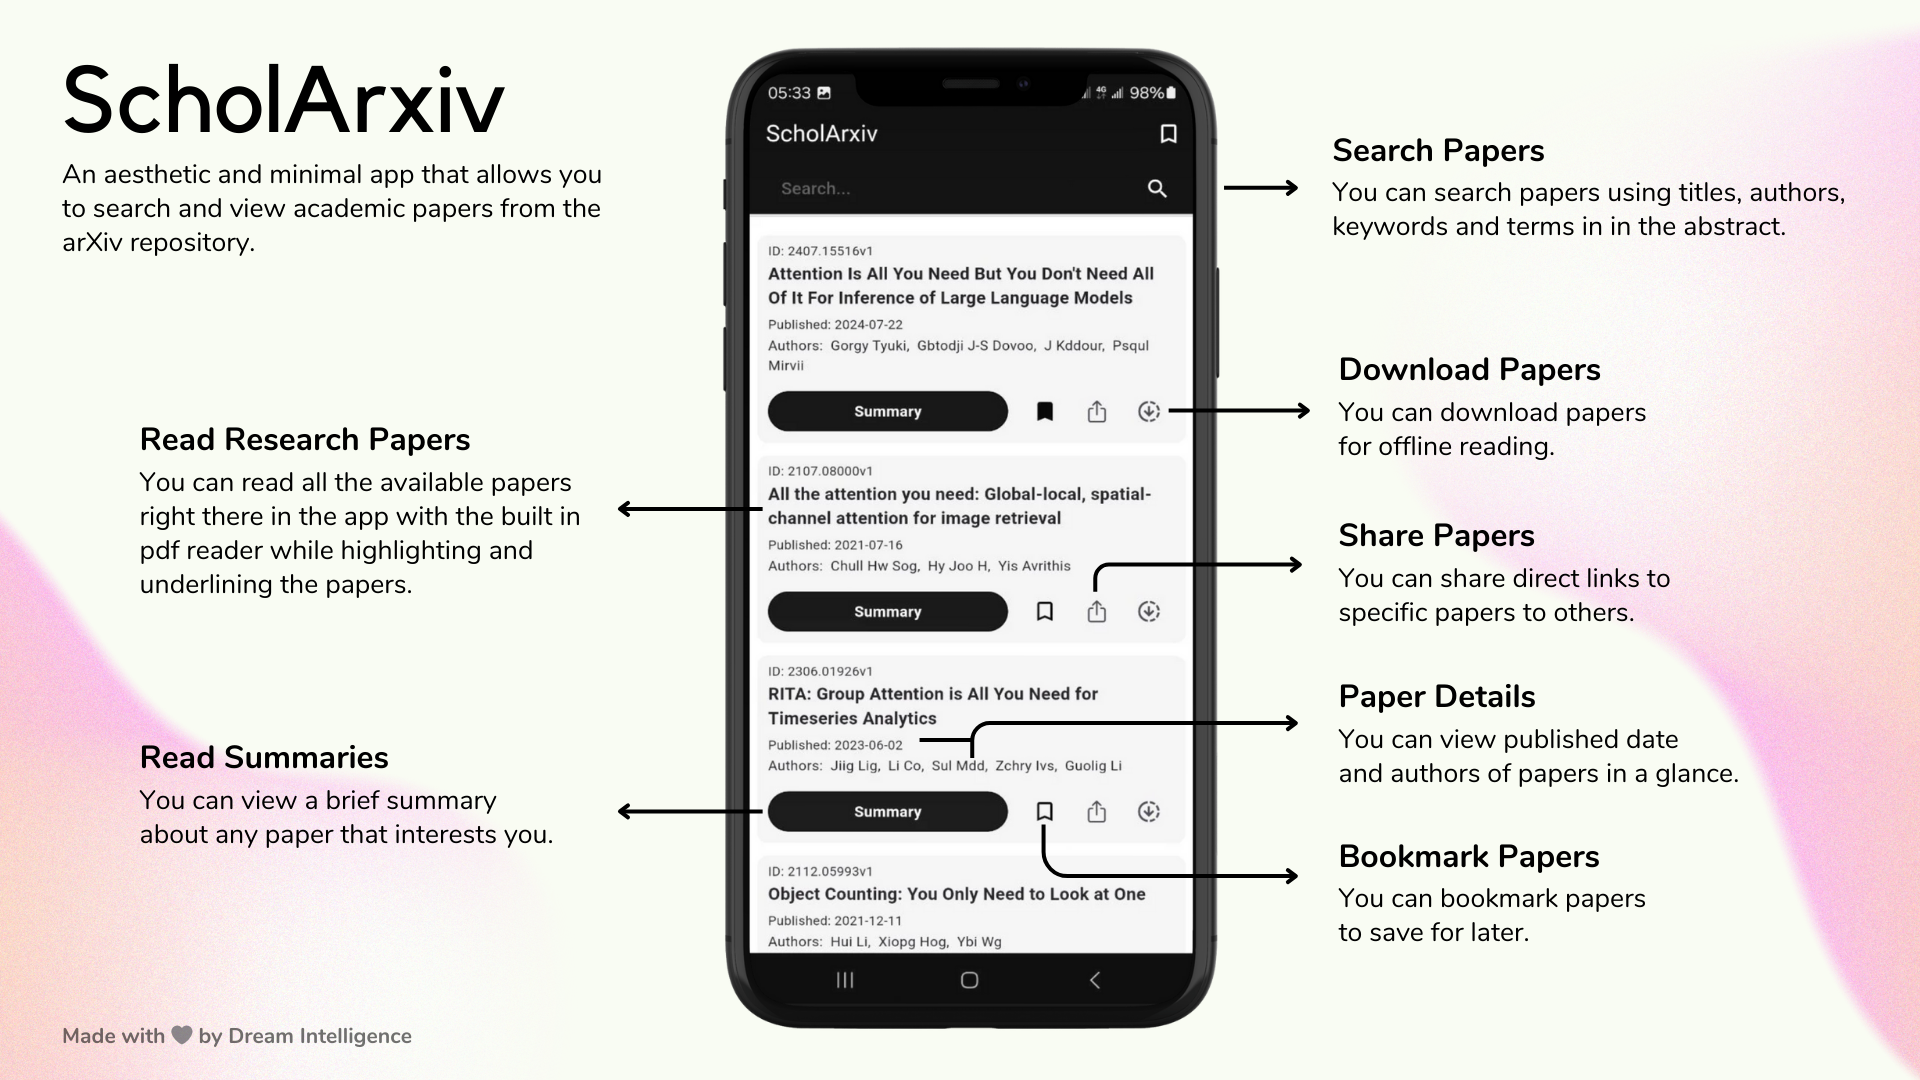
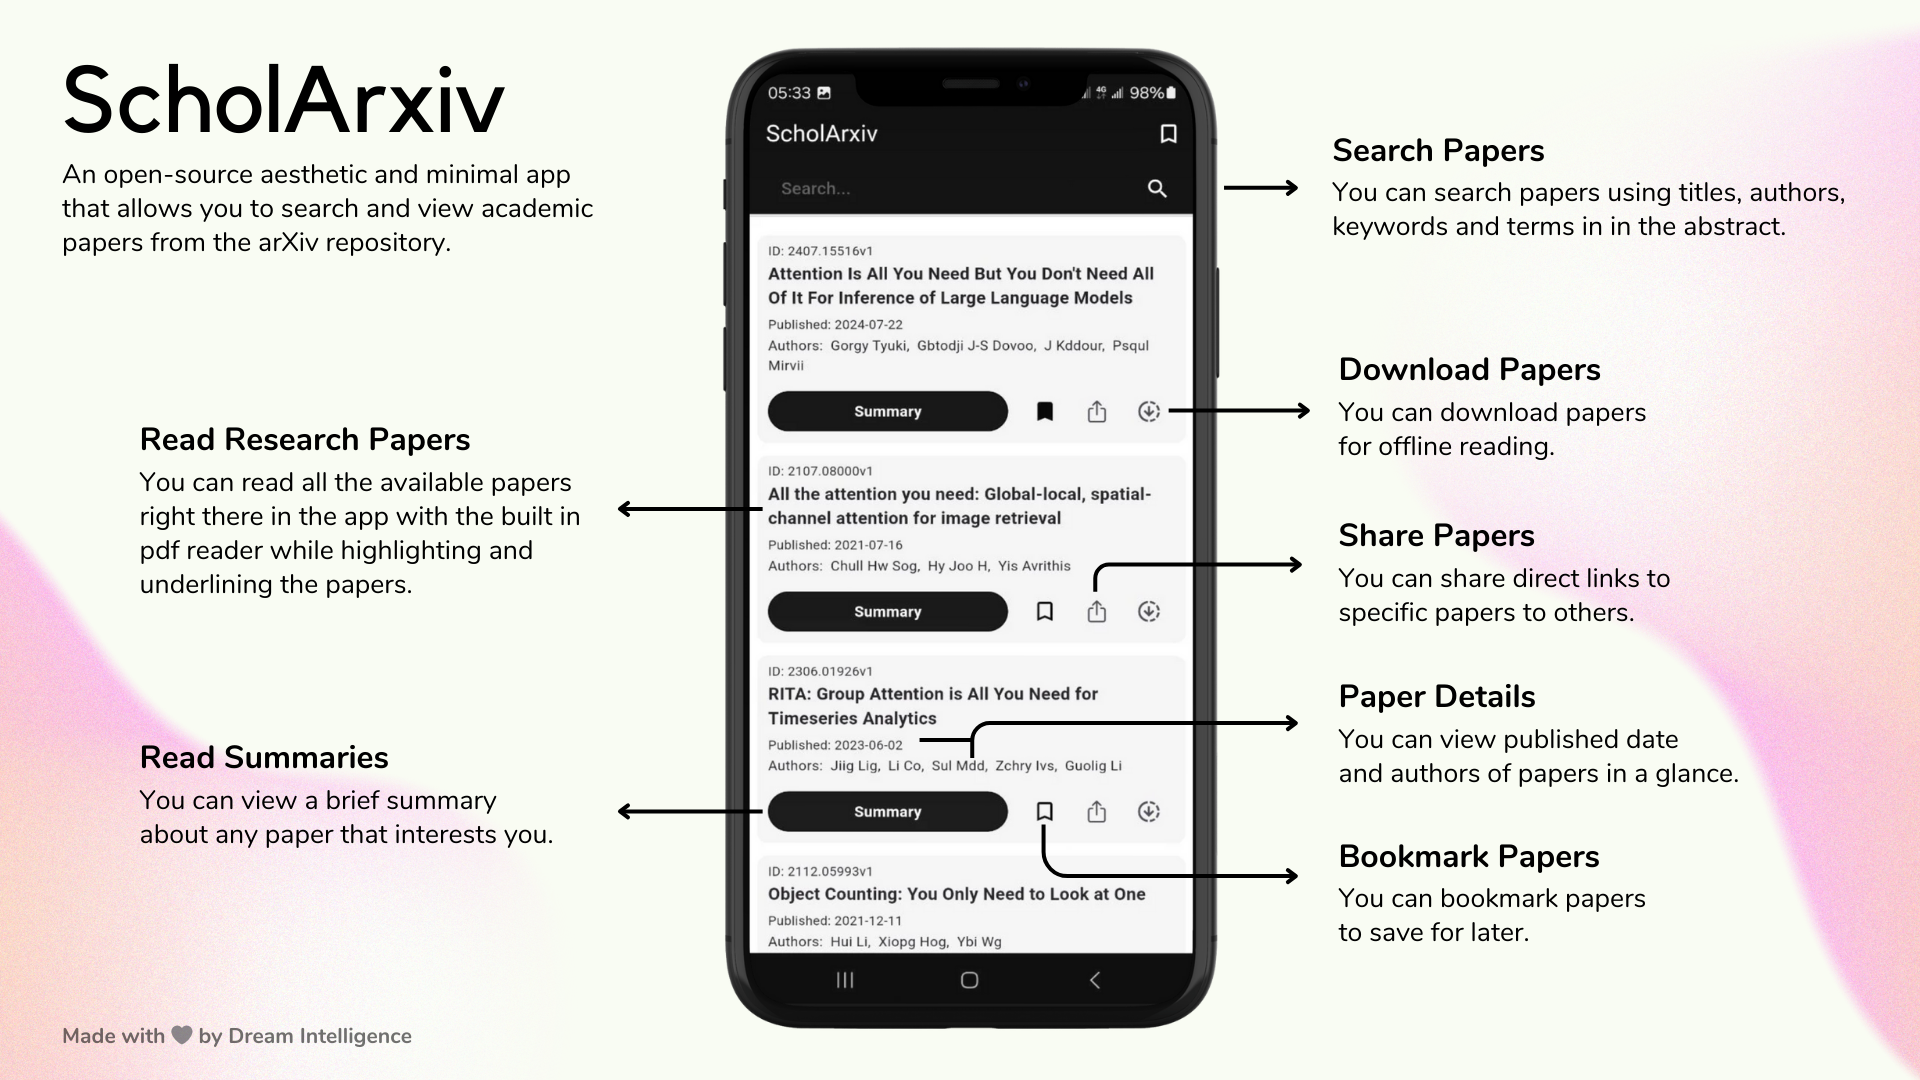
better readme

Changed region(s): [[0.0312, 0.1528, 0.3125, 0.2444]]

diff --git a/README.md b/README.md
@@ -2,14 +2,18 @@
 
 ![](assets/screenshots/ScholArxiv.png)
 
-**ScholArxiv** is a Flutter application that allows users to search and view academic papers from the arXiv repository. This app provides an aesthetic and minimal interface to access, view, and bookmark academic papers. Users can also download and view papers offline.
+**ScholArxiv** is an open-source aesthetic and minimal app that allows users to search and view, bookmark and share, download and read summaries of academic papers from the arXiv repository.
 
 ### Features
 
 📚**Read Papers**: Read entire papers in detail within the app.
+
 🔖**Bookmarks**: Save your favorite papers for quick access.
+
 📝**Paper Summaries**: View brief paper summaries.
+
 🔎**Search Academic Papers**: Search for papers using keywords, titles, authors and abstract. If no keyword is provided the app suggests random popular papers.
+
 ⬇**Download and Share Papers**: Download papers for offline reading or you can share document links to others.
 
 ### Dependencies
